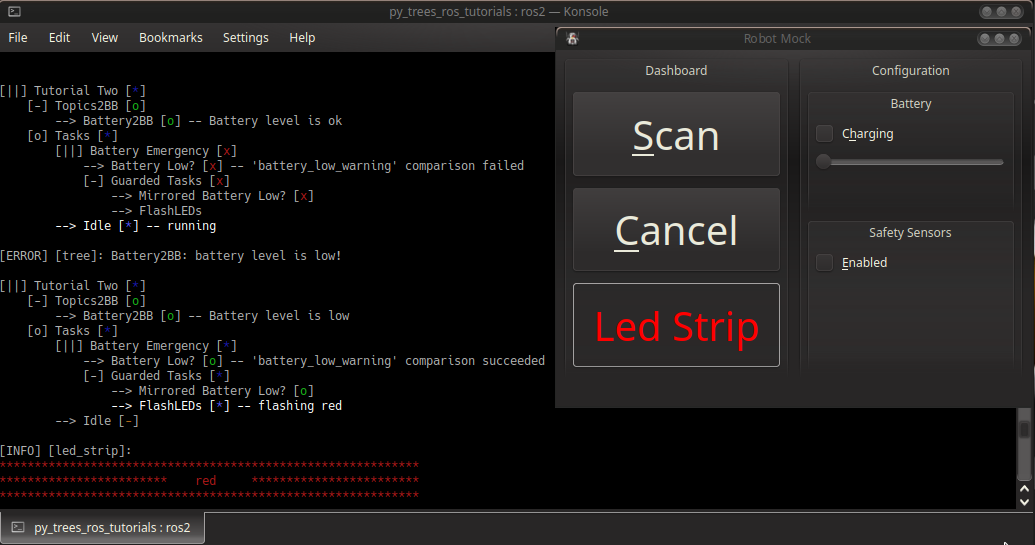
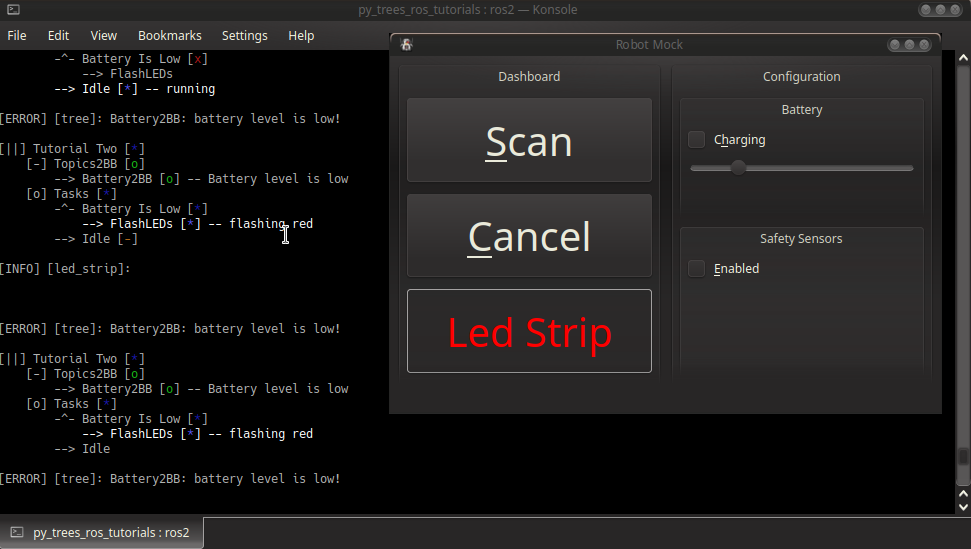
[tutorials] two - update usage of eternal guards

diff --git a/py_trees_ros_tutorials/two_battery_check.py b/py_trees_ros_tutorials/two_battery_check.py
@@ -23,19 +23,21 @@ Tree
    $ py-trees-render py_trees_ros_tutorials.two_battery_check.tutorial_create_root
 
 .. graphviz:: dot/tutorial-two-battery-check.dot
+   :align: center
 
 .. literalinclude:: ../py_trees_ros_tutorials/two_battery_check.py
    :language: python
    :linenos:
-   :lines: 102-145
+   :lines: 115-158
    :caption: two_battery_check.py#tutorial_create_root
 
 Here we’ve added a high priority branch for dealing with a low battery
-that causes the hardware strip to flash. Note the use of the eternal guard
-idiom that instantiates a subtree that handles the common pattern of putting
-a continuously checked guard alongside a task sequence - this ensures
-the led strip is continuously flashed and immediately interrupted as soon
-as one of low battery check fails.
+that causes the hardware strip to flash. The :class:`py_trees.decorators.EternalGuard`
+enables a continuous check of the battery reading and subsequent termination of
+the flashing strip as soon as the battery level has recovered sufficiently.
+We could have equivalently made use of the :class:`py_trees.idioms.eternal_guard` idiom,
+which yields a more verbose, but explicit tree and would also allow direct use of
+the :class:`py_trees.blackboard.CheckBlackboardVariable` class as the conditional check.
 
 Behaviours
 ^^^^^^^^^^
@@ -133,19 +135,19 @@ def tutorial_create_root() -> py_trees.behaviour.Behaviour:
         threshold=30.0
     )
     tasks = py_trees.composites.Selector("Tasks")
-    is_battery_low = py_trees.blackboard.CheckBlackboardVariable(
-        name="Battery Low?",
-        variable_name='battery_low_warning',
-        expected_value=True
-    )
     flash_led_strip = behaviours.FlashLedStrip(
         name="FlashLEDs",
         colour="red"
     )
-    battery_emergency = py_trees.idioms.eternal_guard(
-        name="Battery Emergency",
-        guards=[is_battery_low],
-        tasks=[flash_led_strip]
+
+    def check_battery_low_on_blackboard():
+        blackboard = py_trees.blackboard.Blackboard()
+        return blackboard.battery_low_warning
+
+    battery_emergency = py_trees.decorators.EternalGuard(
+        name="Battery Is Low",
+        condition=check_battery_low_on_blackboard,
+        child=flash_led_strip
     )
     idle = py_trees.behaviours.Running(name="Idle")
 
